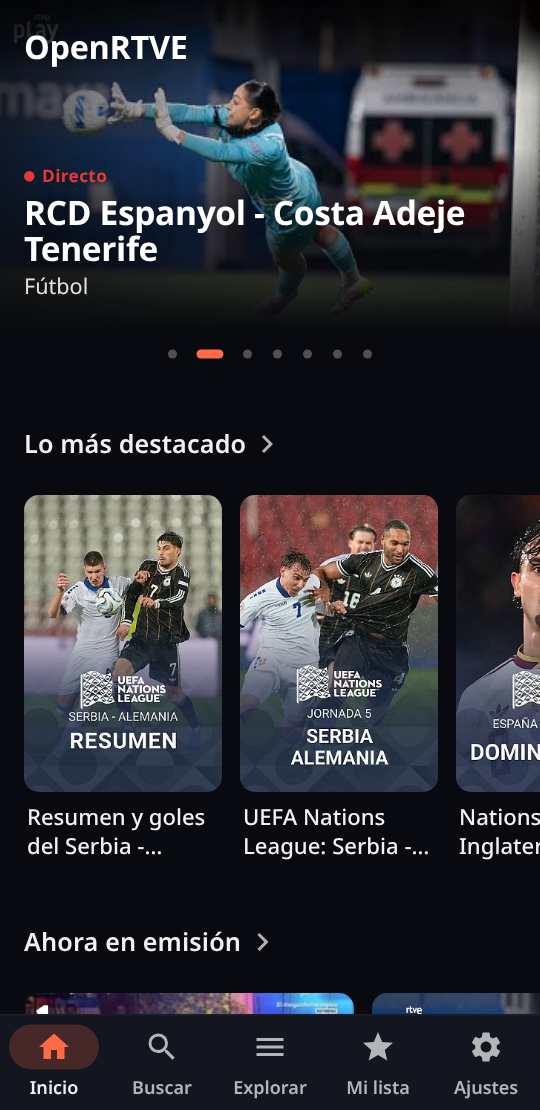
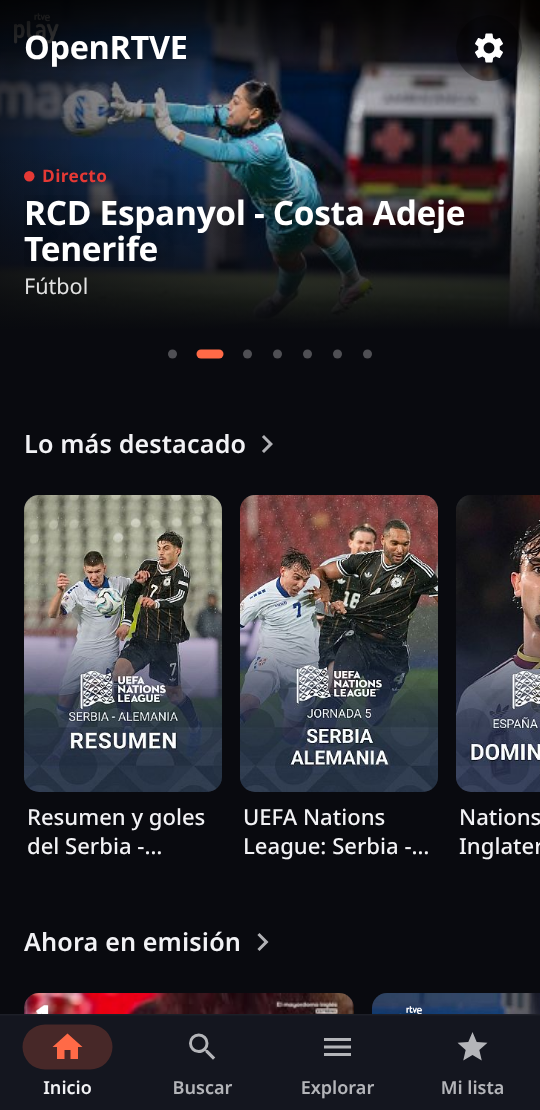
Web: Ajustes sale de la barra inferior del móvil
La barra inferior queda para las cuatro secciones de uso diario (Inicio,
Buscar, Explorar y Mi lista), como en la app de Android y en las apps de
vídeo habituales. En el móvil, Ajustes se abre con un engranaje arriba a la
derecha de Inicio y de Explorar, y mientras está abierto sigue marcada la
sección de la que se vino; en pantallas anchas sigue al pie del panel lateral.

Changed region(s): [[0.0, 0.8883, 0.7704, 1.0], [0.8296, 0.9189, 0.9481, 1.0], [0.8593, 0.0306, 0.9481, 0.0919]]

diff --git a/web/src/components/NavBar.svelte b/web/src/components/NavBar.svelte
@@ -4,7 +4,8 @@
 
   /**
    * Navegación principal, como NavigationSuiteScaffold: barra inferior en el móvil y
-   * carril lateral en pantallas anchas. Volver a pulsar la sección activa sube al
+   * carril lateral en pantallas anchas. En el móvil, solo las cuatro secciones de uso
+   * diario; Ajustes va arriba en Inicio y Explorar (SettingsButton), como en la app. Volver a pulsar la sección activa sube al
    * principio (o enfoca el buscador).
    */
   const items: { tab: Tab; label: string; icon: IconName }[] = [
@@ -23,7 +24,14 @@
   </a>
   {#each items as item (item.tab)}
     {@const active = nav.tab === item.tab && !settingsOpen}
-    <button class="item" class:active aria-current={active ? 'page' : undefined} onclick={() => nav.selectTab(item.tab)}>
+    <!-- En el móvil, Ajustes se abre desde una sección: esa sigue marcada mientras se está en él. -->
+    <button
+      class="item"
+      class:active
+      class:origin={nav.tab === item.tab && settingsOpen}
+      aria-current={active ? 'page' : undefined}
+      onclick={() => nav.selectTab(item.tab)}
+    >
       <span class="pill"><Icon name={item.icon} /></span>
       <span class="label">{item.label}</span>
     </button>
@@ -92,6 +100,21 @@
   .item.active .pill {
     background: rgb(255 106 71 / 0.22);
     color: var(--accent);
+  }
+
+  .settings {
+    display: none;
+  }
+
+  @media (max-width: 839px) {
+    .item.origin {
+      color: var(--text);
+    }
+
+    .item.origin .pill {
+      background: rgb(255 106 71 / 0.22);
+      color: var(--accent);
+    }
   }
 
   @media (min-width: 840px) {

diff --git a/web/src/screens/Portada.svelte b/web/src/screens/Portada.svelte
@@ -8,6 +8,7 @@
   import ImageTile from '../components/ImageTile.svelte';
   import ItemCard from '../components/ItemCard.svelte';
   import Panels from '../components/Panels.svelte';
+  import SettingsButton from '../components/SettingsButton.svelte';
   import TopBar from '../components/TopBar.svelte';
   import { isAbort, toLoadError, type LoadError } from '../lib/data/http';
   import { repository } from '../lib/data/repository';
@@ -286,6 +287,7 @@
 {:else}
   <header class="brandbar" class:hidden={scrolled && sections.length > 0}>
     <span class="brand">OpenRTVE</span>
+    <SettingsButton veil />
   </header>
 {/if}
 
@@ -476,15 +478,25 @@
     z-index: 10;
     display: flex;
     align-items: center;
+    justify-content: space-between;
     height: 64px;
-    padding: 0 var(--gutter);
+    padding: 0 calc(var(--gutter) - 4px) 0 var(--gutter);
     background: linear-gradient(to bottom, rgb(0 0 0 / 0.65), transparent);
     pointer-events: none;
     transition: opacity 0.25s;
   }
 
+  /* La barra deja pasar los toques al hero, salvo el engranaje (y este tampoco si está oculta). */
+  .brandbar :global(.settings-btn) {
+    pointer-events: auto;
+  }
+
   .brandbar.hidden {
     opacity: 0;
+  }
+
+  .brandbar.hidden :global(.settings-btn) {
+    pointer-events: none;
   }
 
   .brand {

diff --git a/web/src/screens/Explore.svelte b/web/src/screens/Explore.svelte
@@ -3,6 +3,7 @@
   import ImageTile from '../components/ImageTile.svelte';
   import ItemCard from '../components/ItemCard.svelte';
   import Panels from '../components/Panels.svelte';
+  import SettingsButton from '../components/SettingsButton.svelte';
   import { isAbort, toLoadError, type LoadError } from '../lib/data/http';
   import { repository } from '../lib/data/repository';
   import { liveRow, type CatalogItem, type ExploreGroup } from '../lib/domain/models';
@@ -96,7 +97,10 @@
   });
 </script>
 
-<h1 class="screen-title">Explorar</h1>
+<div class="title-row">
+  <h1 class="screen-title">Explorar</h1>
+  <SettingsButton />
+</div>
 
 <div class="screen-body">
   {#if isLoading}
@@ -123,6 +127,17 @@
 </div>
 
 <style>
+  .title-row {
+    display: flex;
+    align-items: center;
+    justify-content: space-between;
+    padding-right: calc(var(--gutter) - 4px);
+  }
+
+  .title-row :global(.settings-btn) {
+    margin-top: 12px;
+  }
+
   section h2 {
     padding: 16px var(--gutter) 2px;
   }

diff --git a/web/src/components/SettingsButton.svelte b/web/src/components/SettingsButton.svelte
@@ -1,0 +1,33 @@
+<script lang="ts">
+  import { nav } from '../lib/ui/nav.svelte';
+  import Icon from './Icon.svelte';
+
+  /**
+   * Ajustes en el móvil, como en la app: un engranaje arriba a la derecha de Inicio y
+   * de Explorar. La barra inferior queda para las cuatro secciones de uso diario; en
+   * pantallas anchas Ajustes va al pie del panel lateral y este botón no se muestra.
+   */
+  let { veil = false }: { veil?: boolean } = $props();
+</script>
+
+<button class="icon-btn settings-btn" class:veil onclick={() => nav.navigate({ name: 'settings' })} aria-label="Ajustes" title="Ajustes">
+  <Icon name="settings" />
+</button>
+
+<style>
+  /* Sobre una imagen (la cabecera de Inicio): fondo oscuro para que se lea. */
+  .veil {
+    background: rgb(0 0 0 / 0.35);
+    color: white;
+  }
+
+  .veil:hover {
+    background: rgb(0 0 0 / 0.55);
+  }
+
+  @media (min-width: 840px) {
+    .settings-btn {
+      display: none;
+    }
+  }
+</style>

diff --git a/README.md b/README.md
@@ -148,9 +148,10 @@ En Firefox de escritorio se usa como una web normal: Firefox no instala PWA.
 
 ### Qué incluye
 
-- Inicio, Buscar, Explorar, Mi lista y Ajustes, con barra inferior en el móvil y
-  panel lateral en pantallas anchas; fichas de programa y de vídeo con sus
-  pestañas; "Seguir viendo".
+- Inicio, Buscar, Explorar y Mi lista en la barra inferior del móvil (Ajustes,
+  con el engranaje de arriba en Inicio y Explorar, como en la app) y en un panel
+  lateral en pantallas anchas; fichas de programa y de vídeo con sus pestañas;
+  "Seguir viendo".
 - Reproductor con calidad, velocidad, audio y subtítulos, miniaturas al
   arrastrar, siguiente episodio, imagen en imagen, pantalla completa (apaisada en
   Android; en iPhone, la del propio sistema) y doble toque a los lados para saltar 10 s. Con teclado: espacio o
